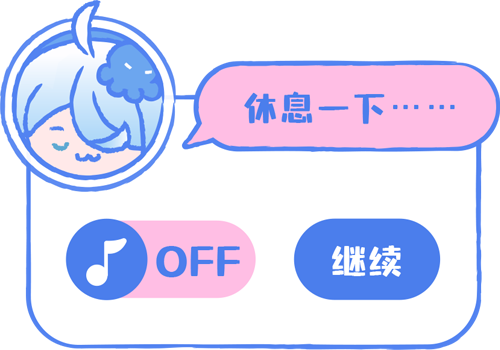
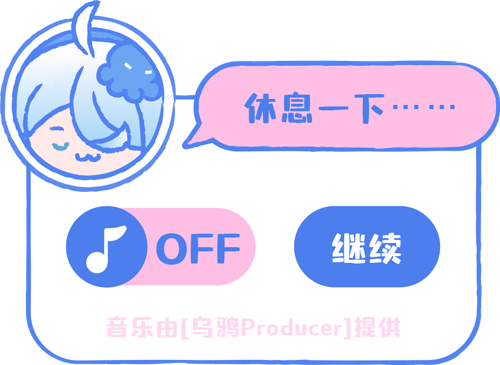
999

diff --git a/styles/snake.css b/styles/snake.css
@@ -105,14 +105,14 @@ body {
 .pausePanelContainer {
     position: relative;
     z-index: 5;
-    visibility: hidden;
+    /* visibility: hidden; */
     display: flex;
     justify-content: center;
     align-items: center;
 }
 
 .pausePanel {
-    background-image: url(../assets/pause_musicON.png);
+    background-image: url(../assets/pause_musicOFF.png);
 }
 
 .musicON {

diff --git a/index.html b/index.html
@@ -96,7 +96,7 @@
   <img src="./assets/gameOverPanel2.png" style="display: none;">
   <img src="./assets/gameOverPanel3.png" style="display: none;">
 
-  <audio src="./sounds/CuteJump.mp3" id="bgm" preload="auto"></audio>
+  <audio src="./sounds/CuteJump.mp3" id="bgm" preload="auto" loop></audio>
 
   <div class="tip"></div>
 
